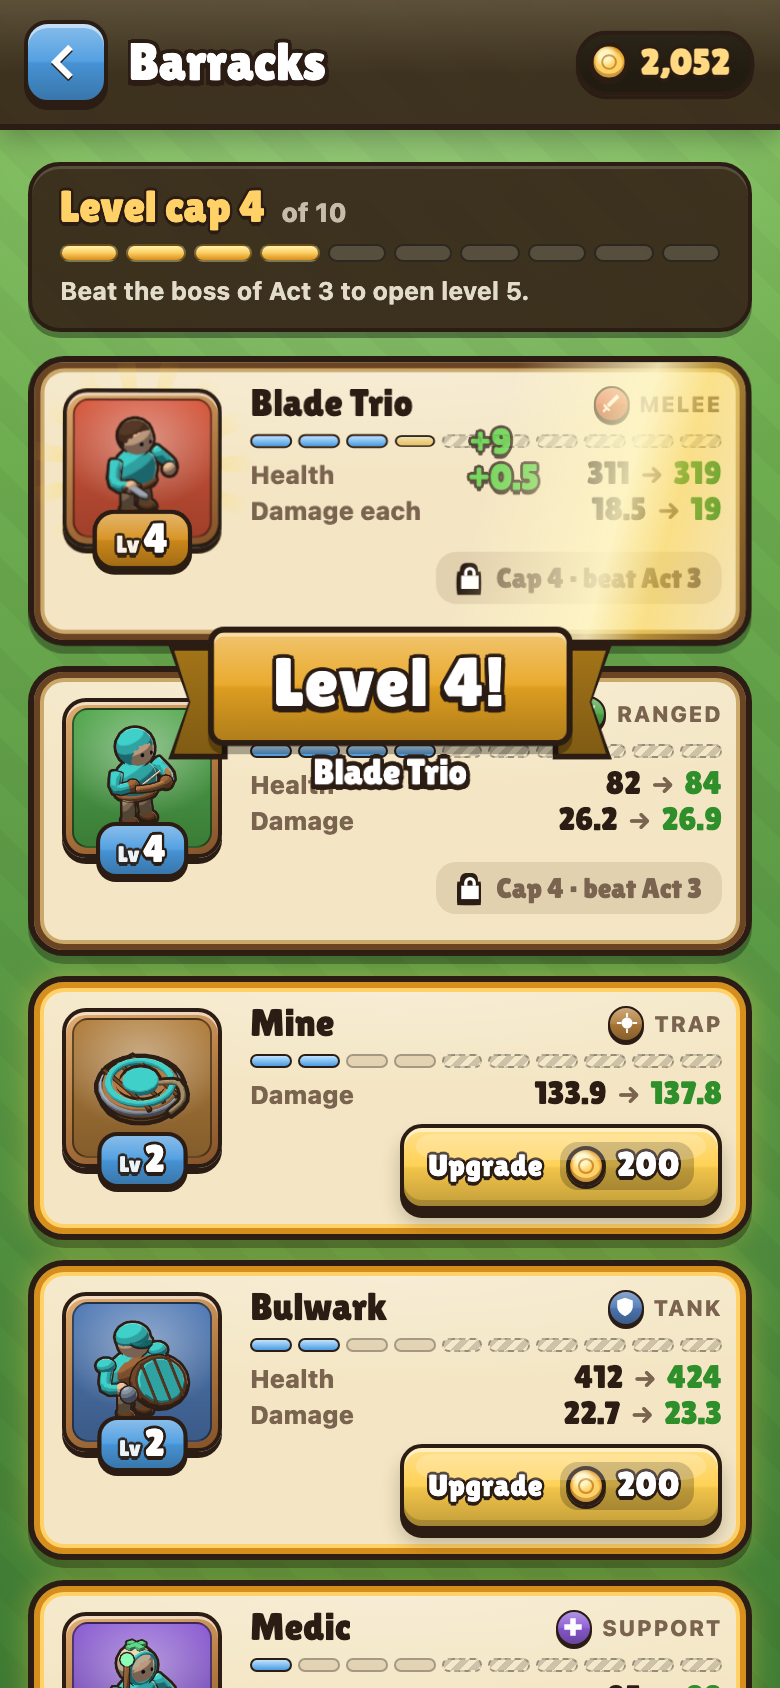
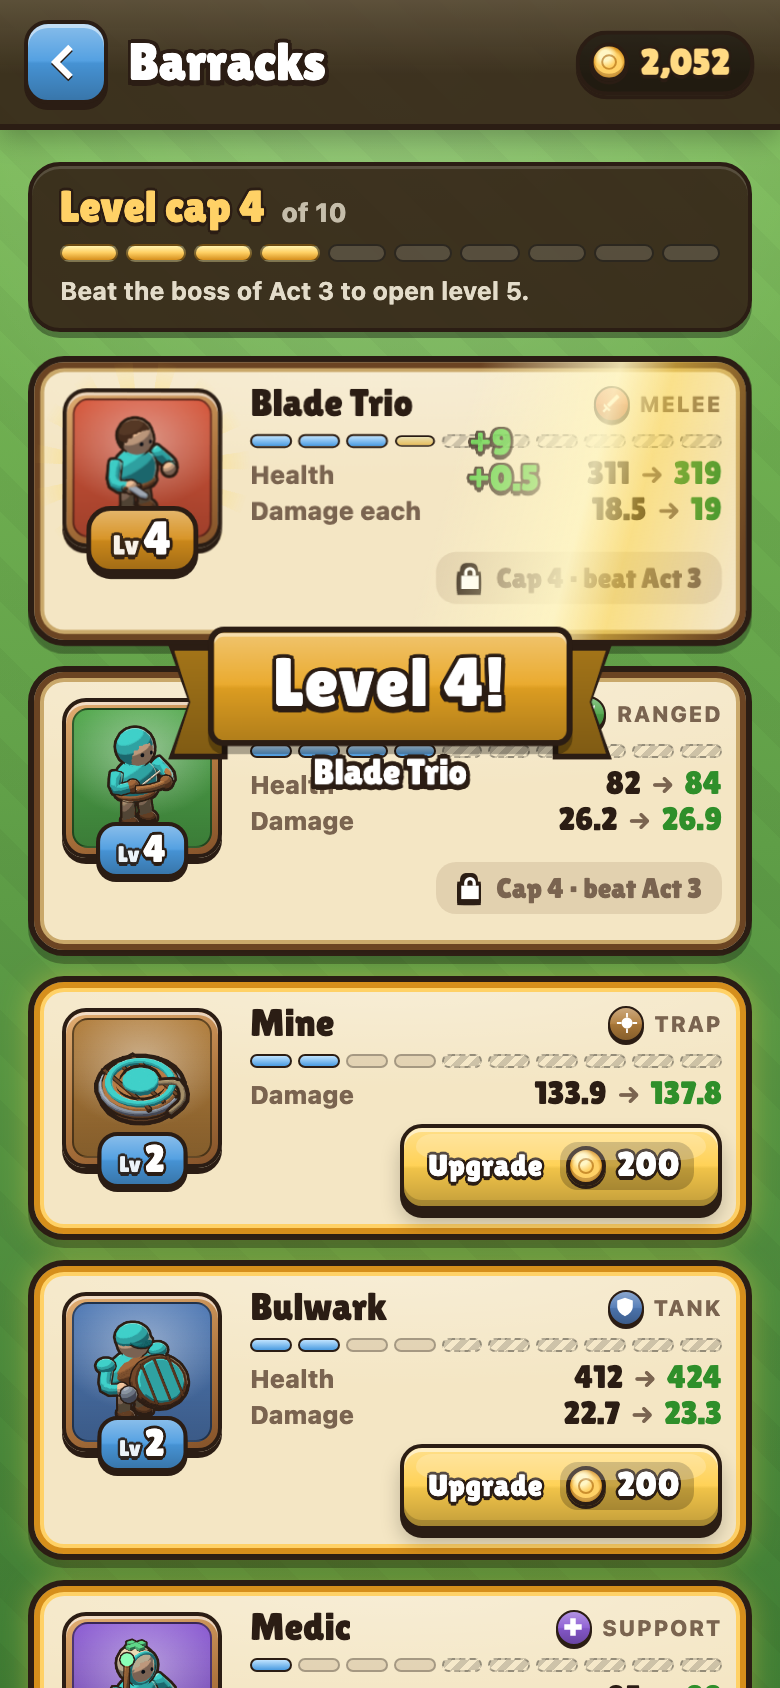
Level sheet shows the foe troop level (Act 3+); shot

diff --git a/src/main.ts b/src/main.ts
@@ -22,6 +22,7 @@ import { GameScreen, framedPortrait, paintPortrait, ribbon } from "./ui/game";
 import { applyUIStyle, icon } from "./ui/kit";
 // [progression] troop levels, coin rewards and the Barracks (src/progression, src/ui/barracks.ts)
 import { awardCampaign, awardDaily, awardGauntletRival, awardSkirmish, withLevels } from "./progression/troops";
+import { foeLevelForAct } from "./progression/economy";
 import { attachReward, barracksLabel, barracksScreen } from "./ui/barracks";
 
 const app = document.getElementById("app")!;
@@ -226,6 +227,7 @@ function levelSheet(l: LevelDef) {
     el("span", { class: "tag" }, [cap(l.ai.tactic)]),
     el("span", { class: "tag" }, [icon("shield"), `${l.hp[1]}`]),
     ...(l.boss ? [el("span", { class: "tag boss" }, [icon("crown"), "Boss"])] : []),
+    ...(foeLevelForAct(l.act) > 1 ? [el("span", { class: "tag" }, [`Troops Lv ${foeLevelForAct(l.act)}`])] : []), // [progression]
   ]);
   const roster = el("div", { class: "roster" }, l.roster.map((k) => framedPortrait(k, 1, `roster-unit ${(l.unlocks ?? [l.unlock]).includes(k) ? "new" : ""}`).frame));
   sheet(el("div", {}, [

diff --git a/outputs/economy/coins.md b/outputs/economy/coins.md
@@ -122,6 +122,8 @@ BALANCE_TABLE
 
 ## Not done yet / notes
 
+- Campaign replays aren't capped. A replay pays the win and that match's stars again (Act 8, 3 stars: 139 coins), so someone grinding three hours makes about 3,500. If that turns out too generous, the lever is a daily replay cap like Skirmish's 300 (`skirmishReward` shows the pattern).
+
 - The in-match unit popover (`statsLine` in `src/ui/game.ts`) still shows level 1 base stats. Health bars in battle use the real levelled values.
 - Gauntlet rival levels haven't been run through `tools/gauntlet.ts` yet. The rule is mild (+1 every 4 rivals, capped at your cap), but it does make deep runs harder for a player who never upgrades.
 - The coin pill in the Barracks header is local (`coinPill()` in `src/ui/barracks.ts`). Swap it for the HUD kit's pill once that lands.
